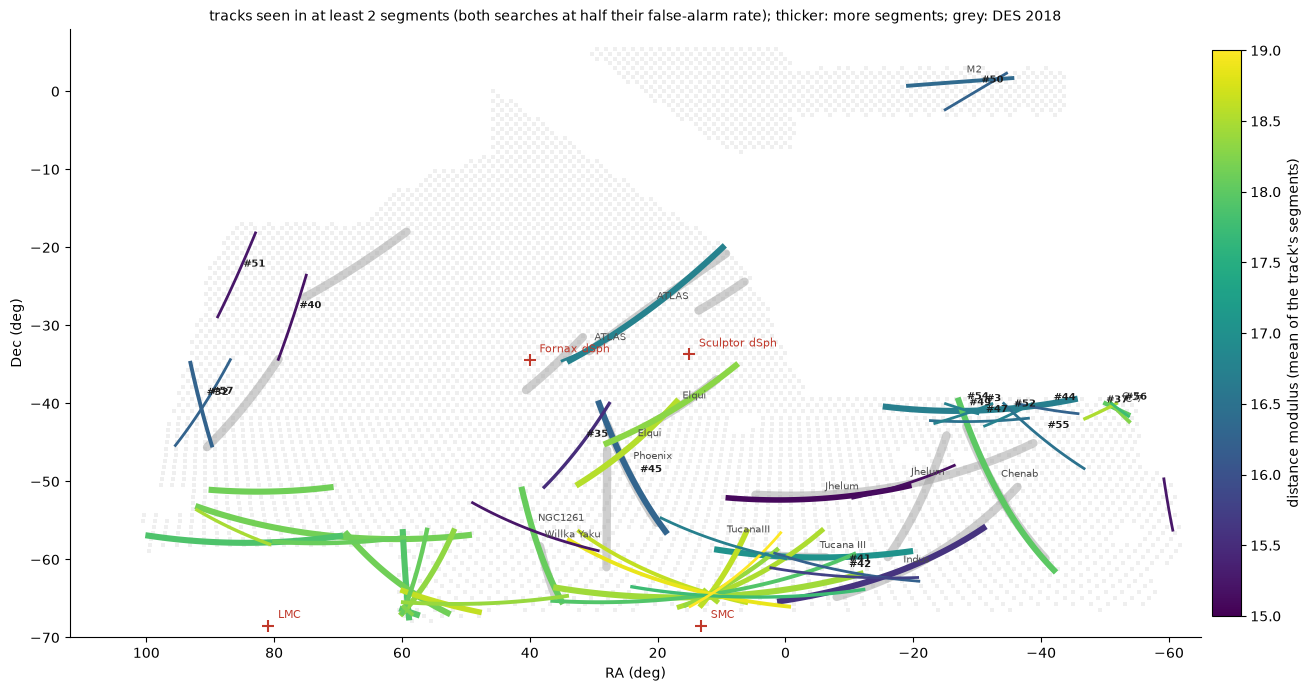
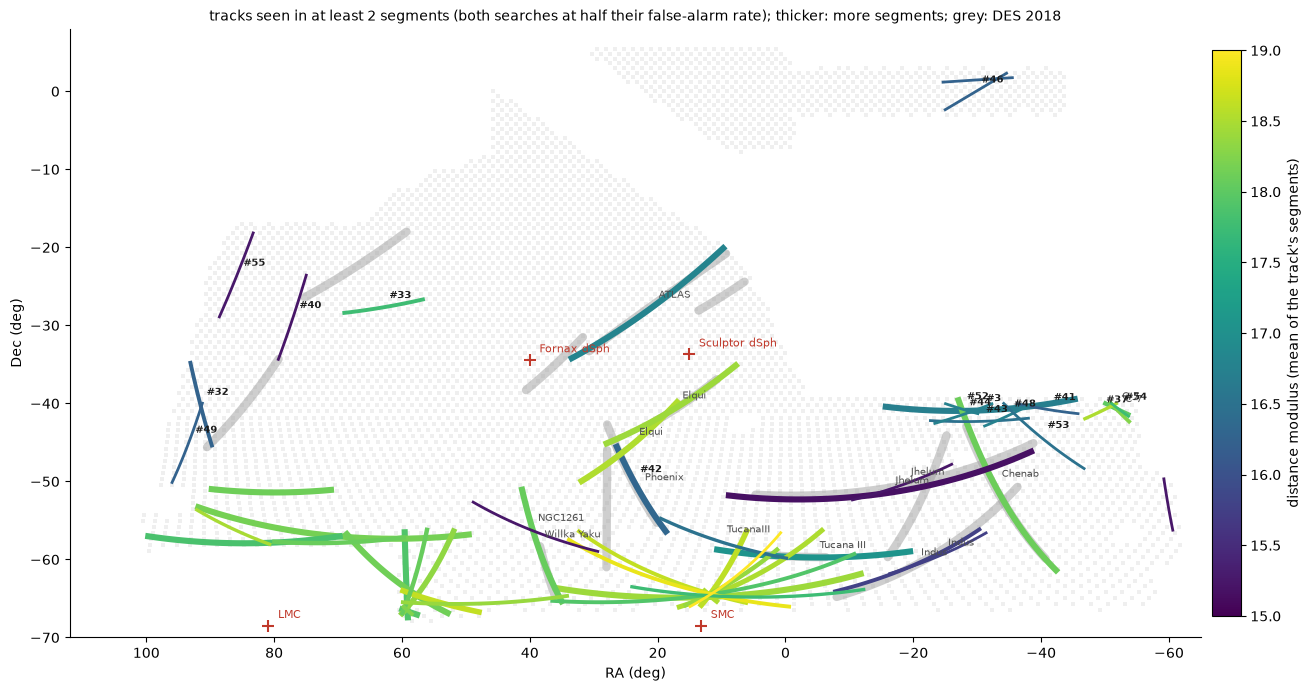
Line follow-up: four quick models and one long model of the 2-degree line model on the copies and the sky (8 then 9 of 14 with the matched filter); three more leads (NGC 1261's stream and Tucana III's extensions) looked at

diff --git a/scripts/experiments/real_des/patches.py b/scripts/experiments/real_des/patches.py
@@ -3147,6 +3147,26 @@ LEADS = {
         "compare": "Cetus-Palca.thomas2021",
         "found_by": "the line network",
     },
+    # from the four-model catalogue: Tucana III's extensions (Ibata et al.
+    # 2024) beyond the DES 2018 track, either side, and NGC 1261's stream
+    "Tucana III, west of its DES 2018 track": {
+        "ends": ((339.11, -62.65), (351.0, -61.64)),
+        "distance": 16.29,
+        "compare": "TucanaIII.ibata2024",
+        "found_by": "the line network",
+    },
+    "Tucana III, east of its DES 2018 track": {
+        "ends": ((6.0, -58.76), (19.47, -54.68)),
+        "distance": 16.73,
+        "compare": "TucanaIII.ibata2024",
+        "found_by": "the line network",
+    },
+    "NGC 1261's stream": {
+        "ends": ((48.96, -52.73), (29.30, -58.87)),
+        "distance": 15.23,
+        "compare": "NGC1261.ibata2024",
+        "found_by": "the line network",
+    },
 }
 LEAD_WIDTH_DEG = 0.4  # half-width of the band the profile and the diagram use
 LEAD_OFF_DEG = (1.5, 3.0)  # the flanking bands, either side of the track
@@ -3175,7 +3195,7 @@ def _lead_coordinates(ra, dec, frame):
     return offset, along
 
 
-def lead_inspection():
+def lead_inspection(names=None):
     """For each of LEADS: a zoomed map of the matched filter's excess (S/N)
     at its distance, the matched-filter band significance along it at every
     queried distance (the band against 200 null bands on the calibration
@@ -3231,6 +3251,8 @@ def lead_inspection():
     LEADS_DIR.mkdir(parents=True, exist_ok=True)
     rows = []
     for name, lead in LEADS.items():
+        if names is not None and name not in names:
+            continue
         frame = _lead_frame(lead["ends"])
         length = frame[2]
         arc_ra, arc_dec = _arc(*lead["ends"][0], *lead["ends"][1], 200)
@@ -3437,6 +3459,10 @@ def lead_inspection():
         )
         print(f"{name}: done", flush=True)
     table = pd.DataFrame(rows)
+    if names is not None and (LEADS_DIR / "leads.csv").exists():
+        # keep the rows of the leads not looked at again
+        kept = pd.read_csv(LEADS_DIR / "leads.csv")
+        table = pd.concat([kept[~kept.lead.isin(table.lead)], table], ignore_index=True)
     table.to_csv(LEADS_DIR / "leads.csv", index=False)
     print(table.round(2).to_string(index=False), flush=True)
 

diff --git a/docs/source/experiments/real_des/line_followup.md b/docs/source/experiments/real_des/line_followup.md
@@ -9,11 +9,71 @@ Branch `line-model-followup`; code `scripts/experiments/real_des/patches.py`
 (`lead_inspection`, and the configurations `hough/band2 residual x4`,
 `s42` and `long`).
 
-**In short.** <!-- filled in below -->
+**In short.** More models help up to two per fold, longer training barely
+— on the copies. On the real sky, **four quick models** give the line
+network seven DES 2018 streams by itself (Jhelum, Indus, Turranburra, and
+Tucana III among them) and **one long model** eight (Phoenix comes back);
+with the matched filter's line search, they find **eight and nine of the
+fourteen** — every stream but Wambelong, Turbio, Molonglo, Ravi and Aliqa
+Uma, two of which are not in the data at all. Looked at one by one, the
+leads of the catalogue split cleanly: **Leiptr, NGC 1261's stream and
+Tucana III's eastern extension hold** — each runs along its proposed track
+and shows a main sequence in the Hess difference, Tucana III's at its own
+distance — while the eastern tracks are the footprint's edge, and the
+"Jhelum extension" and "New-4" were lines crossing those streams, which the
+matching now refuses.
 
 ## More models, longer training
 
-<!-- the comparison is added below -->
+The 2° line model of {doc}`line_sky` is two quick models (4,800 windows)
+per fold. Two more seeds were trained on each fold (`hough/band2 residual
+x4`: four models averaged), and one model per fold four times longer
+(19,200 windows; `hough/band2 residual long`), compared with one quick
+model (`hough/band2 residual s42`, the same seed). On the copies (fold-0
+models on fold 1; half-recovery input S/N, without and along the track,
+and the DES 2018 copies found at full brightness):
+
+| 2° line model | without the track, near / far | along the track, near / far | DES 2018 copies found, near / far |
+|---|---|---|---|
+| 1 quick model | 8.7 / 12.9 | 6.6 / 11.5 | 88% / 79% |
+| 2 quick models | 8.3 / 12.0 | 7.1 / 8.6 | 88% / 89% |
+| 4 quick models | 8.3 / 12.2 | 7.1 / 8.5 | 90% / 82% |
+| 1 long model (19,200 windows) | 8.1 / 12.4 | 7.4 / 12.0 | 85% / 71% |
+
+**From one model to two, the limit improves; from two to four, it does
+not** — as for the per-pixel network ({doc}`labels_normalization`). **Four
+times the training does about what a second model does** for near streams
+(8.1 against 8.7 for one quick model) and loses the short distant ones
+again (far copies found 71% against 79%). Four
+models find Jhelum's copies everywhere (100%, against 88%), but the short
+streams' less often (Tucana III 25% against 50%, Willka Yaku 50% against
+88%): averaging four models dilutes a response to short streams that only
+some of them give.
+
+On the sky (out of fold, as in {doc}`line_sky`):
+
+| DES 2018 streams found beyond chance | line network | both searches, half rate each | either, its own rate |
+|---|---|---|---|
+| 4° label, 2 models | 7: ATLAS, Phoenix, Indus, Jhelum, Chenab, Elqui, Turranburra | 8 | 9 |
+| 2° label, 2 models | 6: ATLAS, Indus, Jhelum, Chenab, Elqui, Tucana III | 8 | 8 |
+| **2° label, 4 models** | **7**: ATLAS, Indus, Jhelum, Chenab, Elqui, Tucana III, Turranburra | **8** | **9** |
+| 2° label, 1 long model (19,200 windows) | **8**: ATLAS, Indus, Jhelum, Chenab, Elqui, Tucana III, Phoenix and Turranburra (one line each) | **9** | **9** |
+
+With four models **Jhelum is found with five lines, Turranburra comes back,
+and Tucana III stays**: the line network alone finds seven, the same
+number as the 4° label but with Tucana III for Phoenix. The matched filter
+finds Phoenix, so the combination of the two searches finds the same eight:
+ATLAS, Chenab, Elqui, Indus, Jhelum, Phoenix, Tucana III, Willka Yaku.
+
+**The long model finds the most on the sky**: eight by the line network
+alone, Phoenix and Turranburra by a single line each, and **nine with the
+matched filter** — every DES 2018 stream but Wambelong, Turbio, Molonglo,
+Ravi and Aliqa Uma. But it is one model per fold, and on the copies it has
+lost what the 2° label gave: the length scan finds bright streams of 4-6°
+at 0-12% again (the two quick 2° models: 25-100%), Tucana III's and Willka
+Yaku's copies at 0%. A single model per fold is a noisy measure — its sky
+result could be a good draw — and the long training may also learn the
+short segments away again; four long models would tell.
 
 ## The leads, one by one
 
@@ -98,6 +158,9 @@ filter's polygon. `patches.py`, `lead_inspection`.*
 | eastern track A (line network) | 89° to New-4, 3.0° | 3.7 (16.0), flat | a broad excess at faint magnitudes | the footprint's edge |
 | eastern track B (line network) | — | 3.5 (17.0), flat | a broad excess at faint magnitudes | the footprint's edge |
 | "Cetus-Palca" (line network) | 20°, 9.0° | 3.5 (15.0), falling | an excess at g ≈ 24 only | not Cetus-Palca (26-35 kpc); depth |
+| **NGC 1261's stream** (line network) | **10°, 11.2°** | 3.2 (15.5) | **a sequence from g ≈ 20.5** | **NGC 1261's stream, as Ibata et al. (2024) trace it** |
+| **Tucana III, east of the DES 2018 track** (line network) | **16°, 3.3°** | **2.9 (17.0)** | **a main sequence from g ≈ 21** | **Tucana III's extension, at its distance** |
+| Tucana III, west of the DES 2018 track (line network) | 22°, 0° | 3.2 (16.0) | a sequence from g ≈ 20 | a streak along the proposed extension, 2° north of the lead |
 
 - **Leiptr** (Ibata et al. 2021) is the one lead that holds: the Hess
   difference shows a main sequence, the shape of a stellar population that
@@ -121,6 +184,35 @@ filter's polygon. `patches.py`, `lead_inspection`.*
   Hess difference shows a weak sequence — not enough to call it a stream.
 - **"Cetus-Palca"** is at the wrong distance (Cetus-Palca lies at 26-35 kpc)
   and its excess lies at the faintest magnitudes only.
+- **NGC 1261's stream** (Ibata et al. 2024): the lead runs along it (10°,
+  over 11°), and the Hess difference shows a sequence whose turnoff, at
+  g ≈ 20.5-21, puts it near m−M 16.5 — the globular cluster NGC 1261 is at
+  m−M 16.1. The band's S/N peaks nearer (15.5), as Leiptr's does: the
+  profile, through the matched filter's changing background with distance,
+  prefers the near distances, and the sequence is the better guide.
+- **Tucana III's extensions** (Ibata et al. 2024), found by the four-model
+  line network beyond the DES 2018 track either side. East, the band's S/N
+  peaks at m−M 17.0 — Tucana III's own distance — and the Hess difference
+  shows a main sequence turning off at g ≈ 21: the stream continues, at its
+  distance, 8° east of where DES 2018 stopped. West, the map shows a streak
+  along the proposed extension itself, about 2° north of the lead, which
+  crosses it at 22°; the Hess difference of the lead holds a sequence too —
+  something is there, which the straight segment fits poorly.
+
+```{image} ../figures/real_des_patches/lead_ngc_1261_s_stream.png
+:alt: NGC 1261's stream: along the proposed track, a sequence in the Hess difference
+:width: 100%
+```
+
+```{image} ../figures/real_des_patches/lead_tucana_iii__east_of_its_des_2018_track.png
+:alt: Tucana III east of its DES 2018 track: a peak at its distance and a main sequence
+:width: 100%
+```
+
+```{image} ../figures/real_des_patches/lead_tucana_iii__west_of_its_des_2018_track.png
+:alt: Tucana III west of its DES 2018 track: a streak along the proposed extension, north of the lead
+:width: 100%
+```
 
 ## Reproducing
 

diff --git a/docs/source/experiments/real_des/index.md b/docs/source/experiments/real_des/index.md
@@ -16,7 +16,7 @@ out of it, and then run over the whole DES footprint with the known streams
 | {doc}`labels_normalization` | quick models: the training label (count or band) and the normalization (window, decoy, Poisson); galaxy masks; patches of the sky | done (2026-09-29, branch `des-clean-training`) |
 | {doc}`window_level` | a network that answers with lines (a Hough transform built in), scored without the track; the matched filter's own line search alongside | done, quick models (2026-10-01, branch `hough-window-model`) |
 | {doc}`line_sky` | the line model over the whole DES sky with the real streams in it: on-sky maps of the detected lines against the DES 2018 tracks | done (2026-10-01, branch `line-model-sky`) |
-| {doc}`line_followup` | more models and longer training of the 2° line model; the catalogue's leads looked at one by one (maps, distance profiles, Hess differences) | in progress (2026-10-01, branch `line-model-followup`) |
+| {doc}`line_followup` | more models and longer training of the 2° line model; the catalogue's leads looked at one by one (maps, distance profiles, Hess differences) | done (2026-10-02, branch `line-model-followup`) |
 
 How the real catalogue and its masks are built is in
 {doc}`../../narrative/real_des_background`; the code is
@@ -134,6 +134,12 @@ removed from the calibration sky only as a diagnostic. `run.py folds`.*
     one runs along Leiptr (Ibata et al. 2021) and its Hess difference shows
     a main sequence — the others are edges and depth changes
     ({doc}`line_sky`, {doc}`line_followup`).
+12. **With four quick models, or one long one, the line network alone finds
+    seven or eight DES 2018 streams, and the two line searches together
+    nine of the fourteen** — all but Wambelong, Turbio, Molonglo, Ravi and
+    Aliqa Uma. Followed up one by one, three of the catalogue's other tracks
+    hold: Leiptr, NGC 1261's stream and Tucana III's extension east of its
+    DES 2018 track, at its distance ({doc}`line_followup`).
 
 ## What comes next
 
